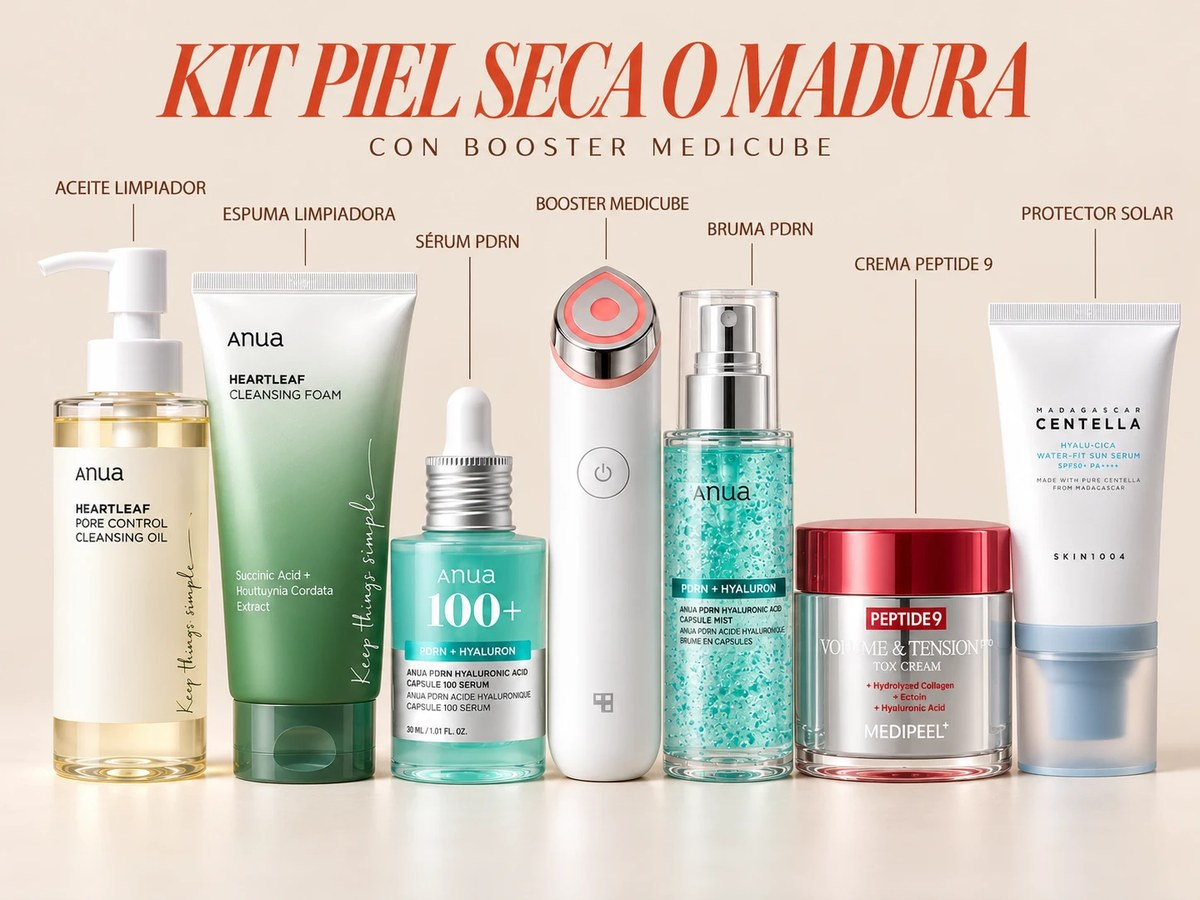
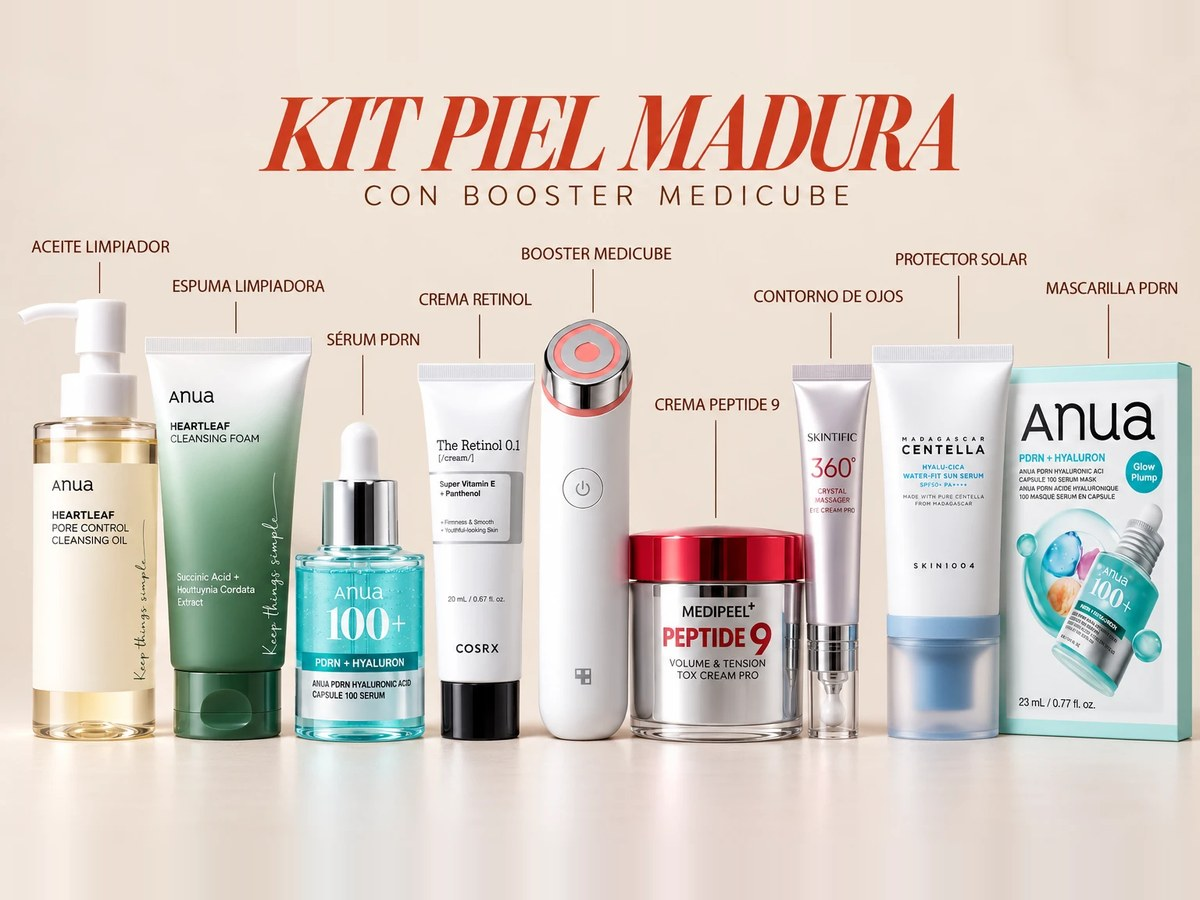
Foto Kit Piel madura

diff --git a/index.html b/index.html
@@ -321,7 +321,7 @@ var P = [
   {id:"kit-manchas", paso:"kits", kit:true, marca:"Kit con booster", nombre:"Kit Manchas", pedidoNombre:"Kit Manchas con booster", precio:229, separado:251, img:"img/kit-manchas.jpg?v=3",
    incluye:["Aceite limpiador Anua","Gel limpiador COSRX","Sérum Niacinamide + TXA Anua","Crema medicube PDRN Pink","Protector SKIN1004 Sun Serum","Mascarilla PDRN Anua"], extra:"Booster medicube AGE-R Mini",
    desc:"Niacinamida y ácido tranexámico para que las manchas se vean más claras, crema con niacinamida y PDRN, y protector todos los días, más el booster."},
-  {id:"kit-seca", paso:"kits", kit:true, marca:"Kit con booster", nombre:"Kit Piel madura", pedidoNombre:"Kit Piel madura con booster", precio:279, separado:306, img:"img/kit-seca.jpg",
+  {id:"kit-seca", paso:"kits", kit:true, marca:"Kit con booster", nombre:"Kit Piel madura", pedidoNombre:"Kit Piel madura con booster", precio:279, separado:306, img:"img/kit-seca.jpg?v=2",
    incluye:["Aceite limpiador Anua","Espuma limpiadora Anua","Sérum PDRN Anua","Crema MEDIPEEL Peptide 9","Crema COSRX Retinol 0.1","Contorno de ojos SKINTIFIC 360","Protector SKIN1004 Sun Serum","Mascarilla PDRN Anua"], extra:"Booster medicube AGE-R Mini",
    desc:"Doble limpieza, péptidos y colágeno para que la piel se vea más firme, retinol suave de noche, contorno de ojos con punta masajeadora, sérum PDRN y protector, más el booster. El retinol va solo de noche y nunca junto con el booster."},
   {id:"kit-glass", paso:"kits", kit:true, marca:"Kit con booster", nombre:"Kit Glass Skin", pedidoNombre:"Kit Glass Skin con booster", precio:249, separado:276, img:"img/kit-glass.jpg",
